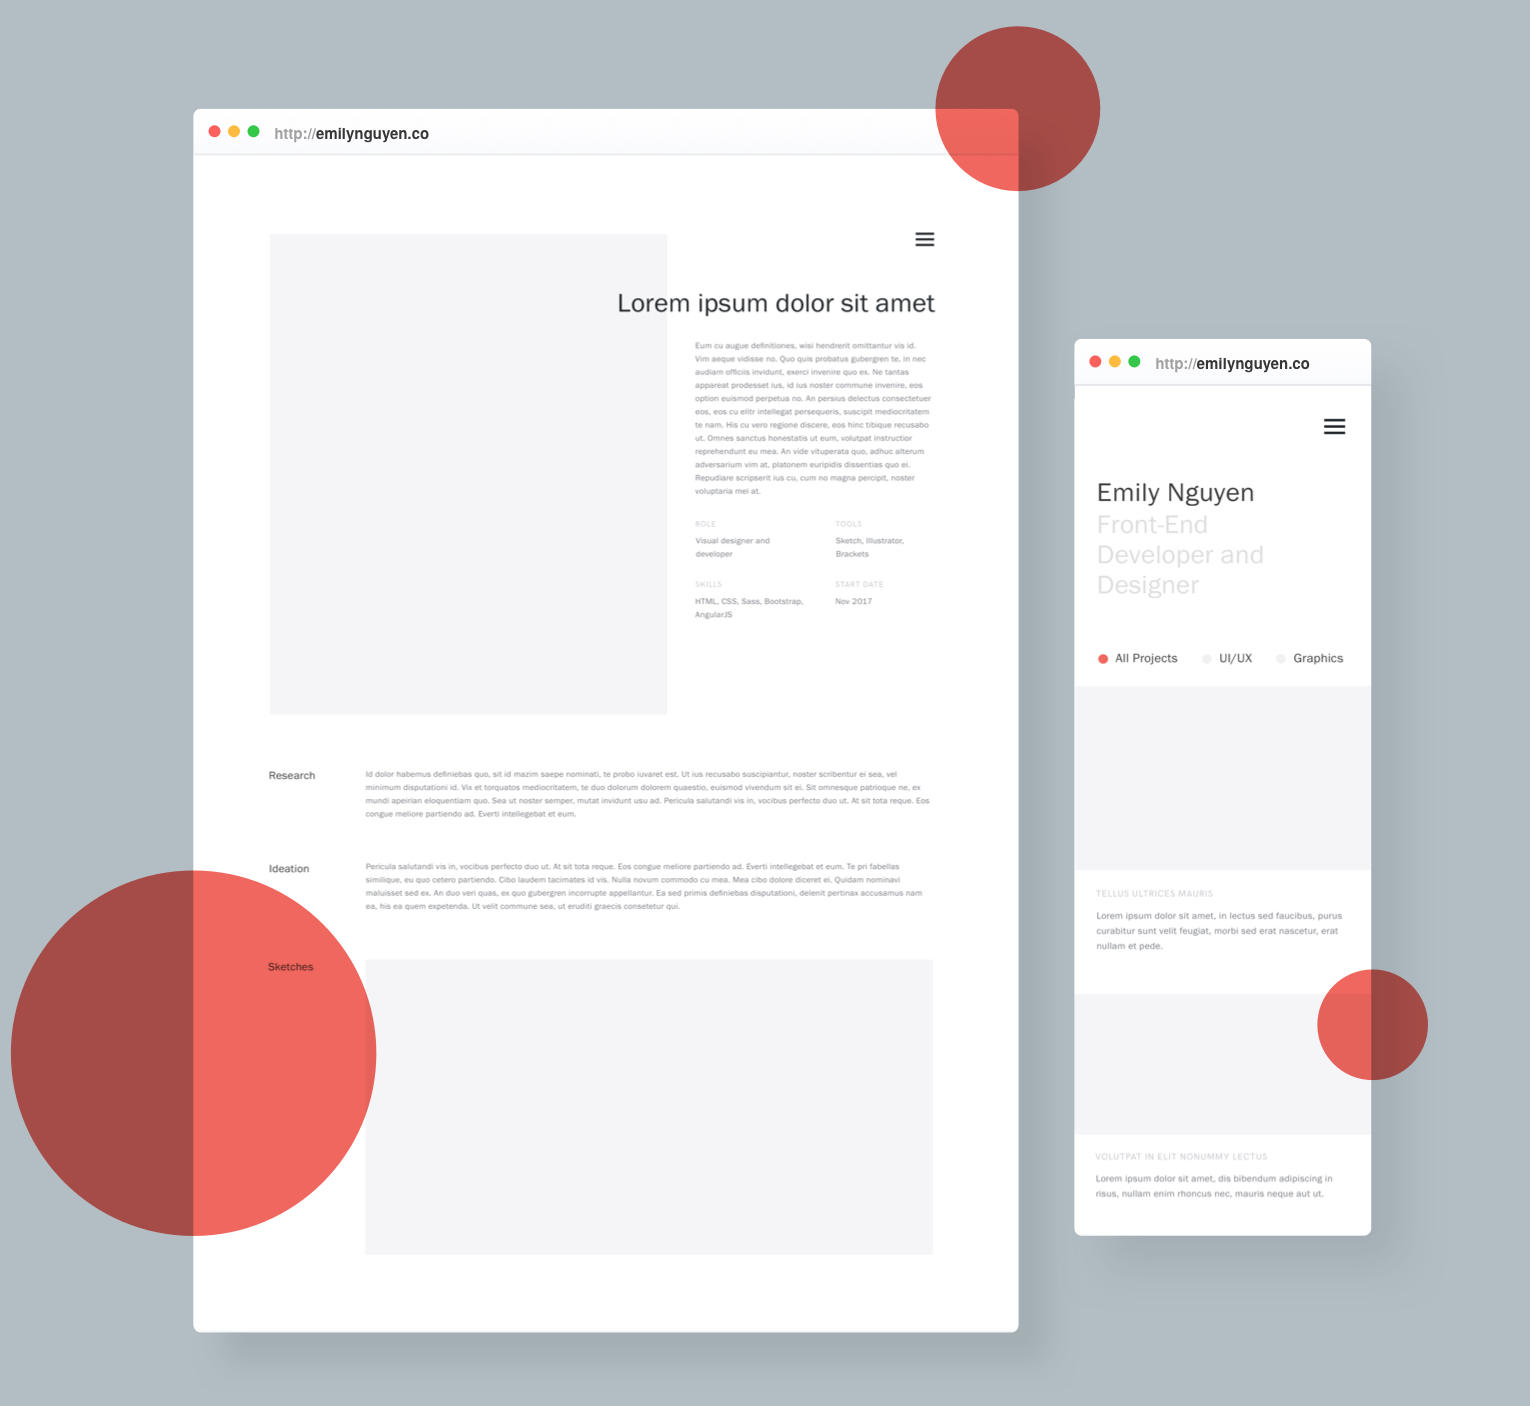
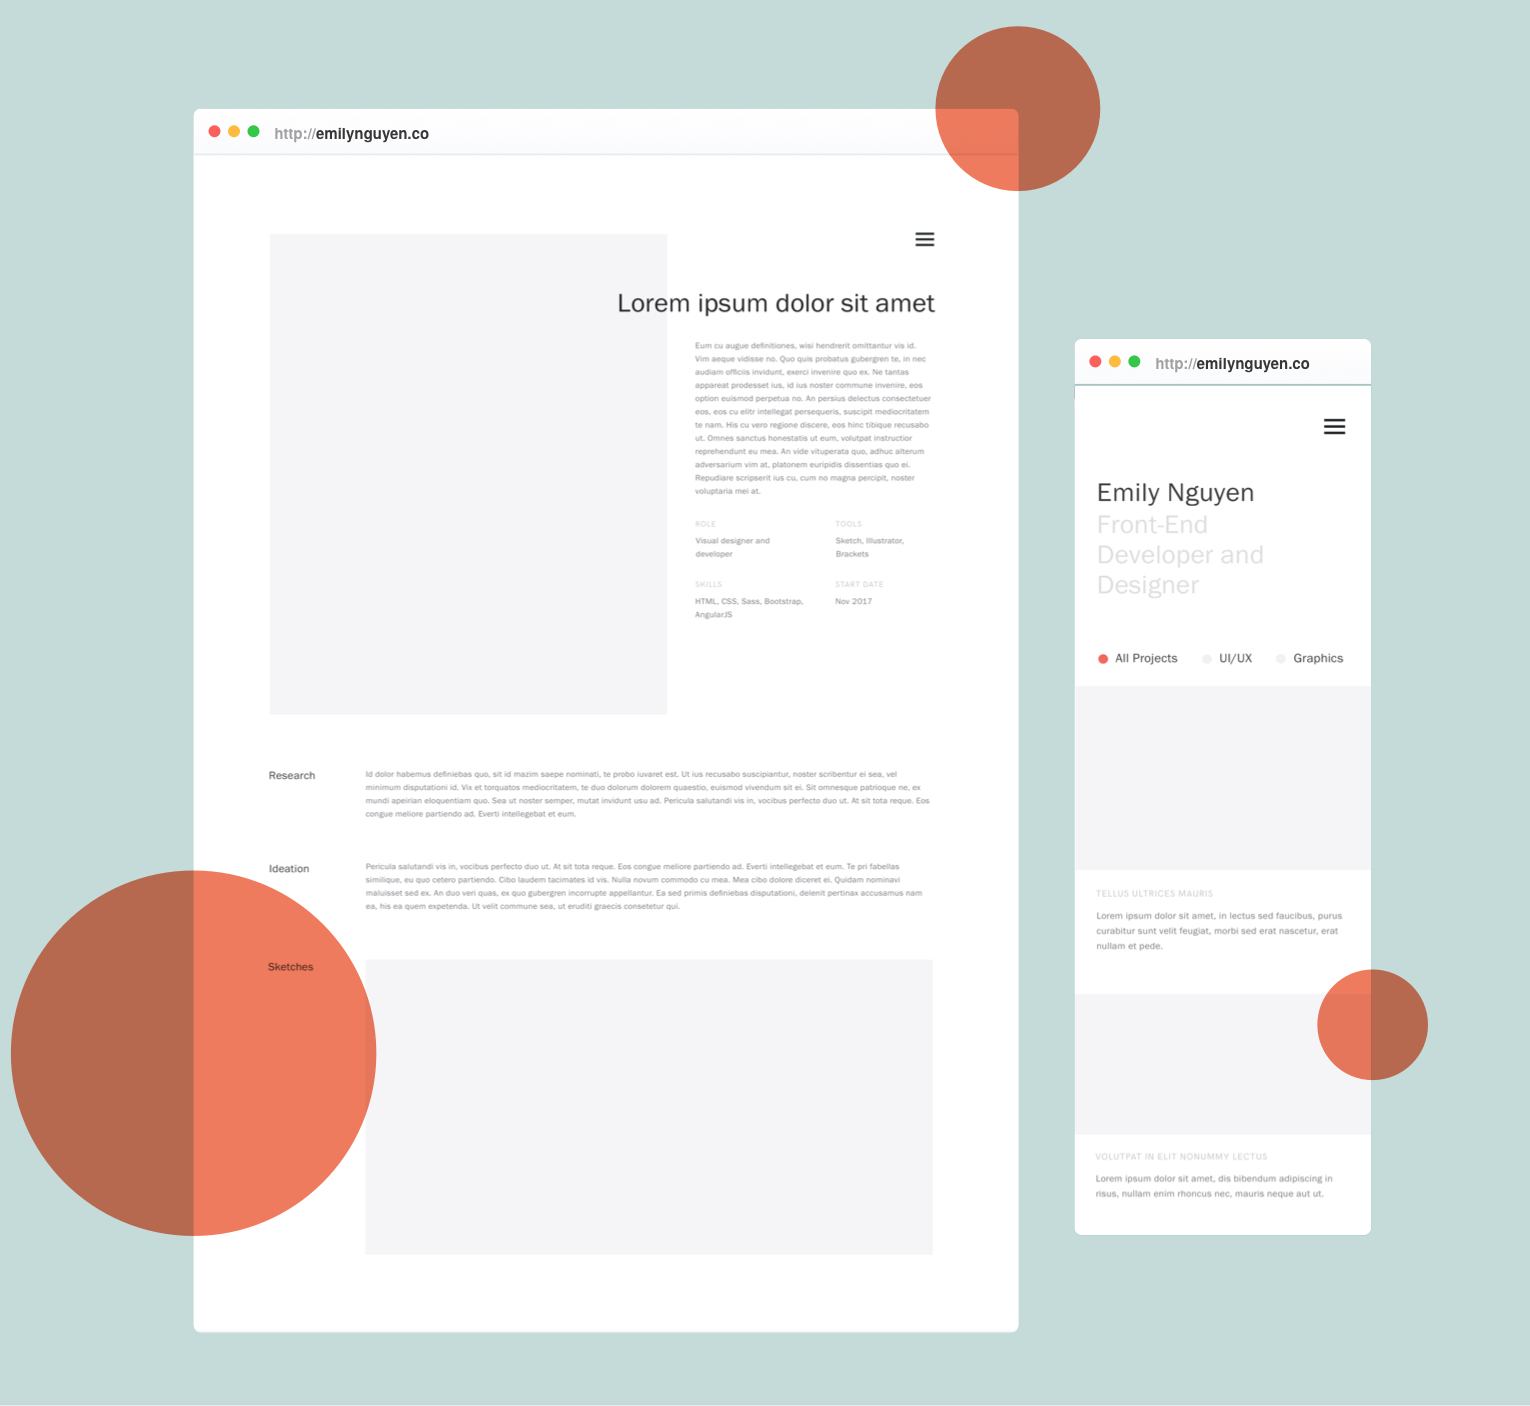
Adjust theme colors

diff --git a/public/css/main.css b/public/css/main.css
@@ -869,7 +869,7 @@ h2, h3, p {
 .hero-container, .logo-container {
   width: 100vw;
   margin-left: -7vw;
-  height: 35rem;
+  height: 40rem;
   -webkit-box-sizing: border-box;
           box-sizing: border-box;
   -webkit-user-select: none;
@@ -877,9 +877,9 @@ h2, h3, p {
       -ms-user-select: none;
           user-select: none; }
   .hero-container.portrait.padding-sm, .portrait.padding-sm.logo-container {
-    padding: 1.5rem 7vw; }
-  .hero-container.portrait.padding-md, .portrait.padding-md.logo-container {
     padding: 4rem 7vw; }
+  .hero-container.portrait.padding-md, .portrait.padding-md.logo-container {
+    padding: 6rem 7vw; }
   .hero-container.portrait.padding-lg, .portrait.padding-lg.logo-container {
     padding: 7rem 7vw; }
   .hero-container.landscape.padding-sm, .landscape.padding-sm.logo-container {
@@ -887,7 +887,7 @@ h2, h3, p {
   .hero-container.landscape.padding-md, .landscape.padding-md.logo-container {
     padding: 5rem calc(7vw + 2rem); }
   .hero-container.landscape.padding-lg, .landscape.padding-lg.logo-container {
-    padding: 9rem calc(7vw + 4rem); }
+    padding: 9rem calc(7vw + 4.2rem); }
   @media (min-width: 600px) {
     .hero-container, .logo-container {
       margin-left: -10vw; } }
@@ -1047,9 +1047,9 @@ h2, h3, p {
   display: -webkit-box;
   display: -ms-flexbox;
   display: flex;
-  -webkit-box-pack: justify;
-      -ms-flex-pack: justify;
-          justify-content: space-between;
+  -webkit-box-pack: center;
+      -ms-flex-pack: center;
+          justify-content: center;
   -ms-flex-line-pack: center;
       align-content: center;
   -ms-flex-wrap: wrap;

diff --git a/public/scss/pages/_project.scss b/public/scss/pages/_project.scss
@@ -12,15 +12,15 @@
 .hero-container {
   width: 100vw;
   margin-left: -$side-padding-xs;
-  height: 35rem;
+  height: 40rem;
   box-sizing: border-box;
   user-select: none;
   &.portrait {
     &.padding-sm {
-      padding: 1.5rem $side-padding-xs;
+      padding: 4rem $side-padding-xs;
     }
     &.padding-md {
-      padding: 4rem $side-padding-xs;
+      padding: 6rem $side-padding-xs;
     }
     &.padding-lg {
       padding: 7rem $side-padding-xs;
@@ -34,7 +34,7 @@
       padding: 5rem calc(#{$side-padding-xs} + 2rem);
     }
     &.padding-lg {
-      padding: 9rem calc(#{$side-padding-xs} + 4rem);
+      padding: 9rem calc(#{$side-padding-xs} + 4.2rem);
     }
   }
   @include sm-up {
@@ -232,7 +232,7 @@
 
 .swatch-container {
   display: flex;
-  justify-content: space-between;
+  justify-content: center;
   align-content: center;
   flex-wrap: wrap;
 }
